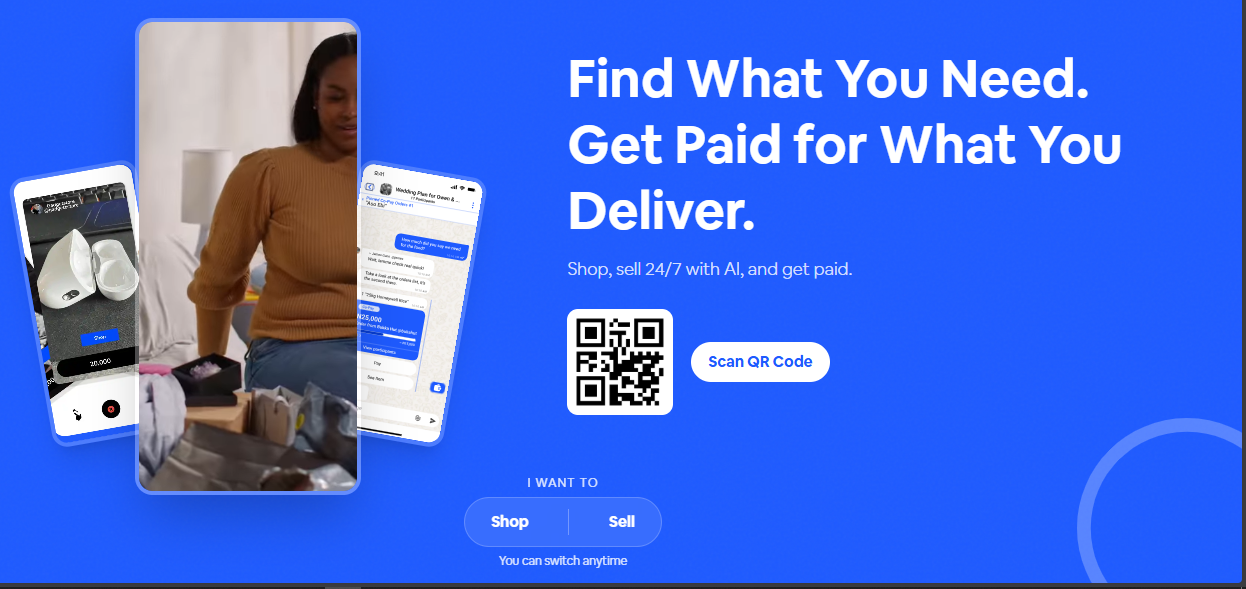
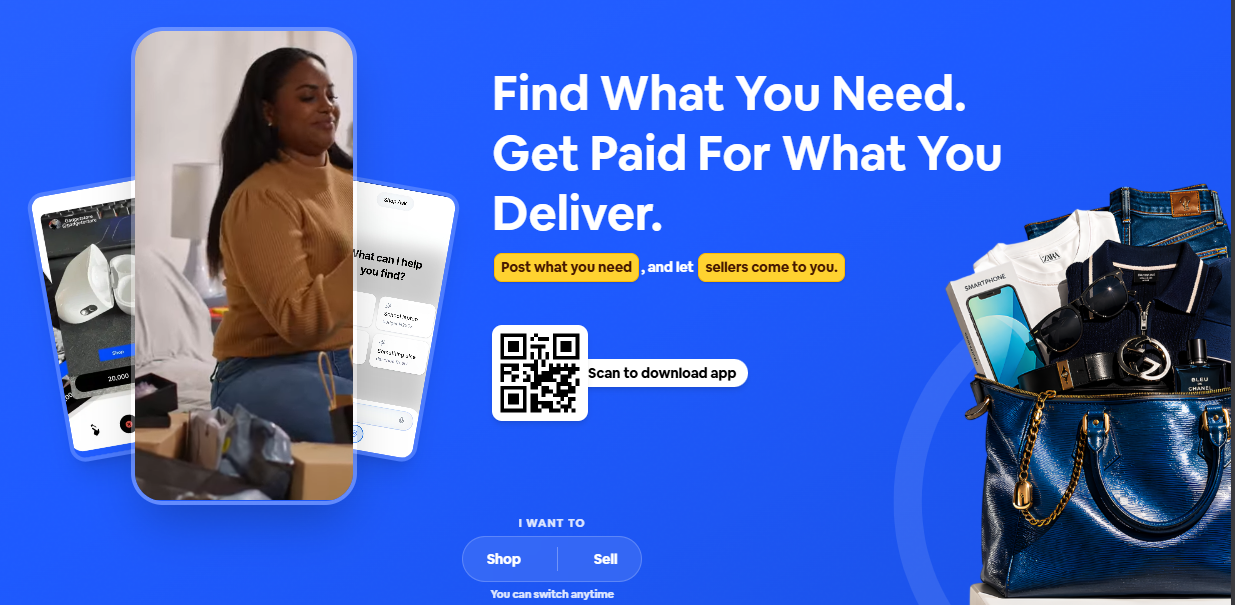
meta data updates

diff --git a/app/layout.tsx b/app/layout.tsx
@@ -36,10 +36,10 @@ const manrope = Manrope({
 export const metadata: Metadata = {
   metadataBase: new URL('https://paymeo.co'),
   title: {
-    default: 'Paymeo - Find What You Need. Get Paid For What You Deliver.',
+    default: 'Paymeo: Find, Sell, Get Paid, Shop & Connect',
     template: '%s | Paymeo'
   },
-  description: 'Sell 24/7 with AI. Find what you need. Pay Securely. Tip people, and get Paid For what you deliver.',
+  description: "Use Paymeo to post what you're looking for. Your community sends recommendations. AI connects you to local sellers. Shop & Sell smartly with AI that handles negotiations. Pay securely, tip helpful people, earn when you help others find what they need, and connect around things you love. Use Paymeo today.",
   keywords: [
     'social commerce',
     'intent-driven commerce',
@@ -65,24 +65,24 @@ export const metadata: Metadata = {
     type: 'website',
     locale: 'en_US',
     url: 'https://paymeo.co',
-    title: 'Paymeo - Find What You Need. Get Paid For What You Deliver.',
-    description: 'Sell 24/7 with AI. Find what you need. Pay securely. Tip people, and get Paid For what you deliver.',
+    title: 'Paymeo: Find, Sell, Get Paid, Shop & Connect',
+    description: "Use Paymeo to post what you're looking for. Your community sends recommendations. AI connects you to local sellers. Shop & Sell smartly with AI that handles negotiations. Pay securely, tip helpful people, earn when you help others find what they need, and connect around things you love. Use Paymeo today.",
     siteName: 'Paymeo',
     images: [
       {
         url: '/og-image.png',
         width: 1200,
         height: 630,
-        alt: 'Paymeo - Find What You Need. Get Paid For What You Deliver.',
+        alt: 'Paymeo: Find, Sell, Get Paid, Shop & Connect',
       }
     ],
   },
   twitter: {
     card: 'summary_large_image',
-    title: 'Paymeo - Find What You Need. Get Paid For What You Deliver.',
-    description: 'Sell 24/7 with AI, Find what you need. Pay securely. Tip people, and get Paid For what you deliver.',
+    title: 'Paymeo: Find, Sell, Get Paid, Shop & Connect',
+    description: "Use Paymeo to post what you're looking for. Your community sends recommendations. AI connects you to local sellers. Shop & Sell smartly with AI that handles negotiations. Pay securely, tip helpful people, earn when you help others find what they need, and connect around things you love. Use Paymeo today.",
     images: ['/og-image.png'],
-    creator: '@paymeo',
+    creator: '@usepaymeo',
   },
   robots: {
     index: true,

diff --git a/components/LandingGate/index.tsx b/components/LandingGate/index.tsx
@@ -403,6 +403,20 @@ export default function LandingGate({
                         >
                           Support
                         </a>
+                         <a
+                          href="/terms"
+                          className="block text-base text-gray-800 hover:text-[#1e5aff] transition-colors"
+                          onClick={() => setIsDesktopMenuOpen(false)}
+                        >
+                          Terms of Service
+                        </a>
+                         <a
+                          href="/privacy"
+                          className="block text-base text-gray-800 hover:text-[#1e5aff] transition-colors"
+                          onClick={() => setIsDesktopMenuOpen(false)}
+                        >
+                          Privacy Policy
+                        </a>
                       </div>
                     </motion.div>
 
@@ -602,14 +616,25 @@ export default function LandingGate({
           </motion.p>
         </AnimatePresence>
       </div>
-      <div className="flex items-center justify-center lg:justify-start gap-4 mt-1">
-        <div className="bg-white p-2 rounded-lg hidden sm:block">
-          <img
-            src="https://api.qrserver.com/v1/create-qr-code/?size=160x160&data=https://paymeo.co"
-            className="w-[80px] h-[80px]"
-          />
-        </div>
+     <div className="flex items-center justify-center lg:justify-start gap-4 mt-1">
+  <div className="relative inline-block">
+    {/* QR code block - higher z-index to bring forward */}
+    <div className="bg-white p-2 rounded-lg hidden sm:block shadow-md relative z-10">
+      <img
+        src="https://api.qrserver.com/v1/create-qr-code/?size=160x160&data=https://paymeo.co"
+        className="w-[80px] h-[80px]"
+        alt="QR code to download app"
+      />
+    </div>
+    
+    {/* Pill protruding from right side - goes to back */}
+    <div className="hidden sm:block absolute left-full top-1/2 -translate-y-1/2 -ml-3 z-0">
+      <div className="bg-white text-black text-sm font-semibold pl-3 pr-3 py-1 rounded-r-full shadow-md whitespace-nowrap flex items-center gap-2">
+        <span>Scan to download app</span>
       </div>
+    </div>
+  </div>
+</div>
     </motion.div>
 
   </div>

diff --git a/components/Nav/index.tsx b/components/Nav/index.tsx
@@ -400,6 +400,20 @@ export default function SmartNav({
                       >
                         Support
                       </a>
+                      <a
+                        href="/terms"
+                        className="block text-base text-gray-800 hover:text-[#1e5aff] transition-colors"
+                        onClick={() => setIsDesktopMenuOpen(false)}
+                      >
+                        Terms of Service
+                      </a>
+                      <a
+                        href="/privacy"
+                        className="block text-base text-gray-800 hover:text-[#1e5aff] transition-colors"
+                        onClick={() => setIsDesktopMenuOpen(false)}
+                      >
+                        Privacy Policy
+                      </a>
                     </div>
                   </motion.div>
 

diff --git a/app/manifest.ts b/app/manifest.ts
@@ -2,9 +2,9 @@ import { MetadataRoute } from 'next'
 
 export default function manifest(): MetadataRoute.Manifest {
   return {
-    name: 'Paymeo - Find What You Need. Get Paid For What You Deliver.',
+    name: 'Paymeo: Find, Sell, Get Paid, Shop & Connect',
     short_name: 'Paymeo',
-    description: 'Sell with AI. Find what you need. Pay securely, Tip people, and get Paid For what you deliver.',
+    description: "Use Paymeo to post what you're looking for. Your community sends recommendations. AI connects you to local sellers. Shop & Sell smartly with AI that handles negotiations. Pay securely, tip helpful people, earn when you help others find what they need, and connect around things you love. Use Paymeo today.",
     start_url: '/',
     display: 'standalone',
     background_color: '#ffffff',
